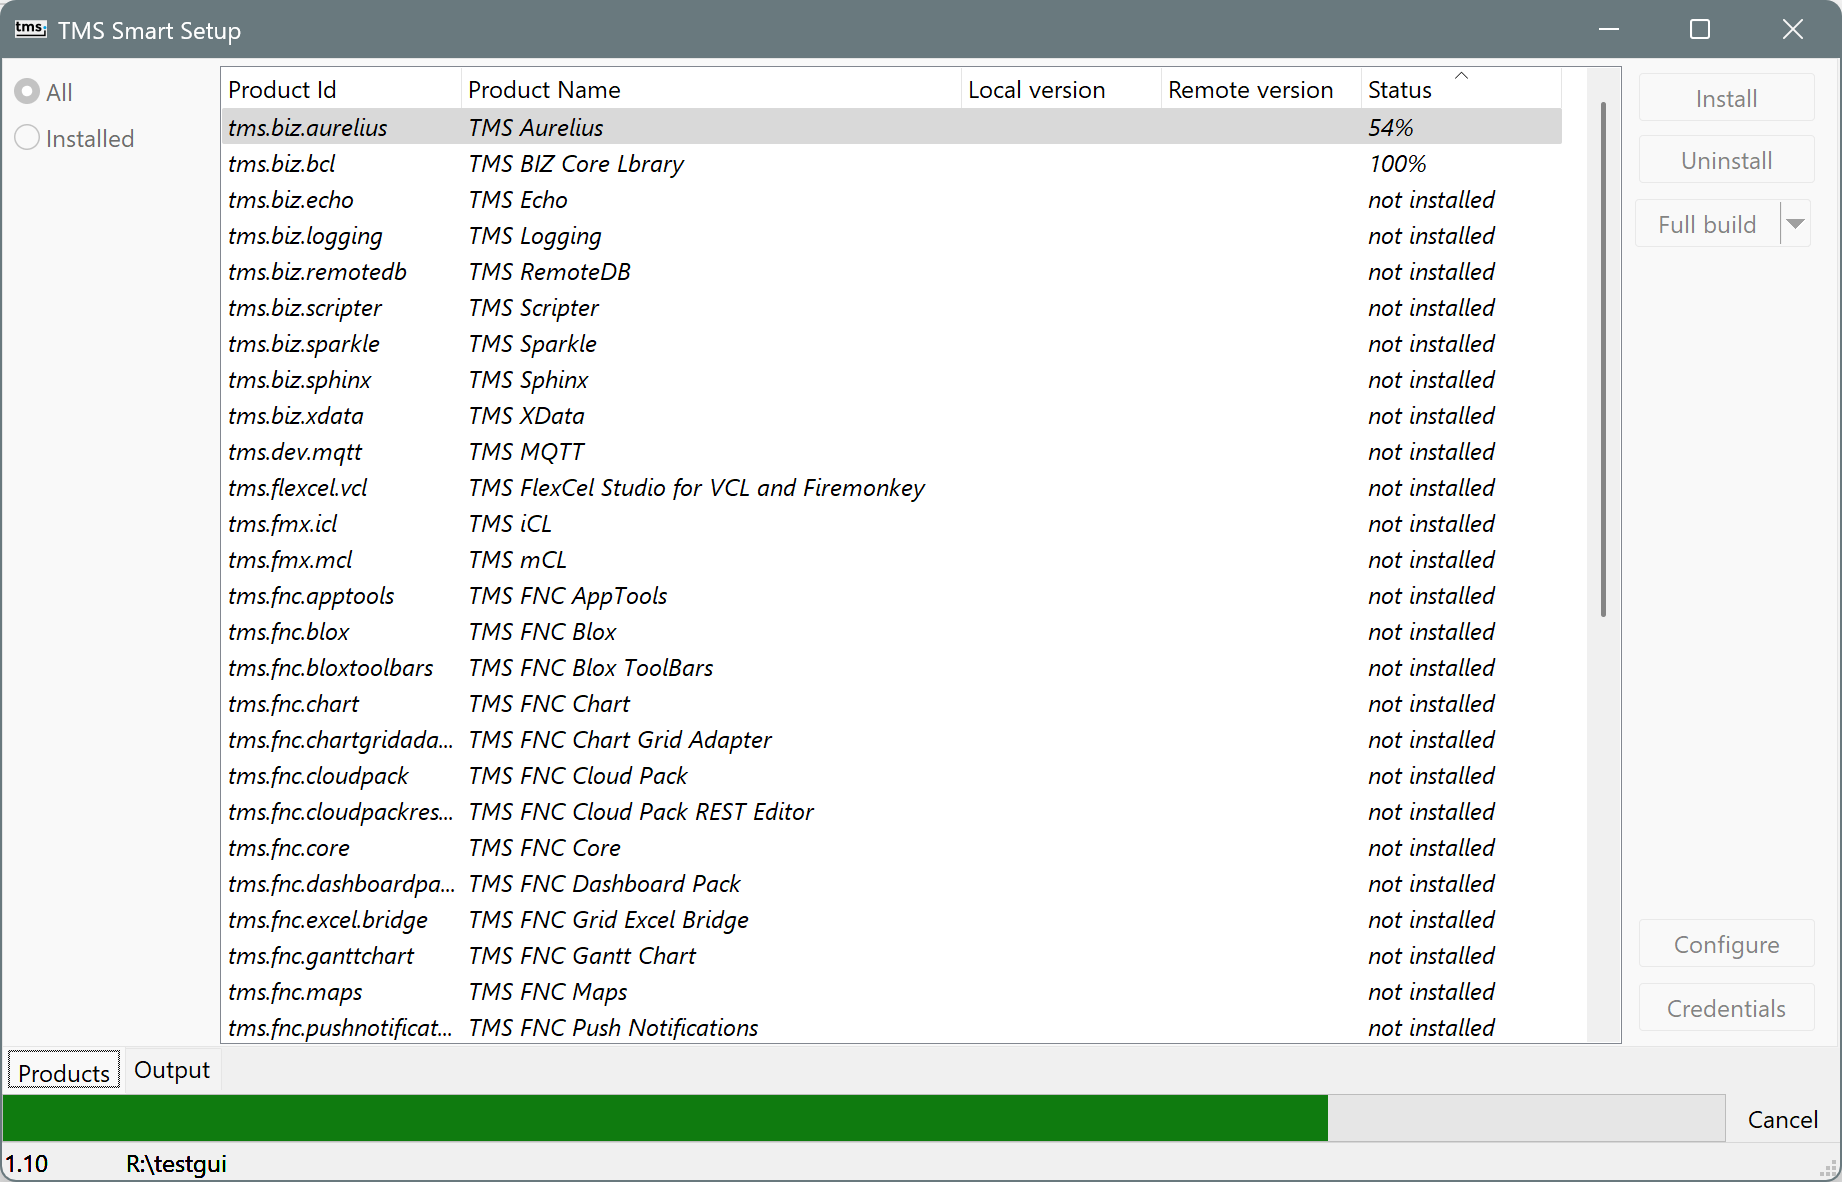
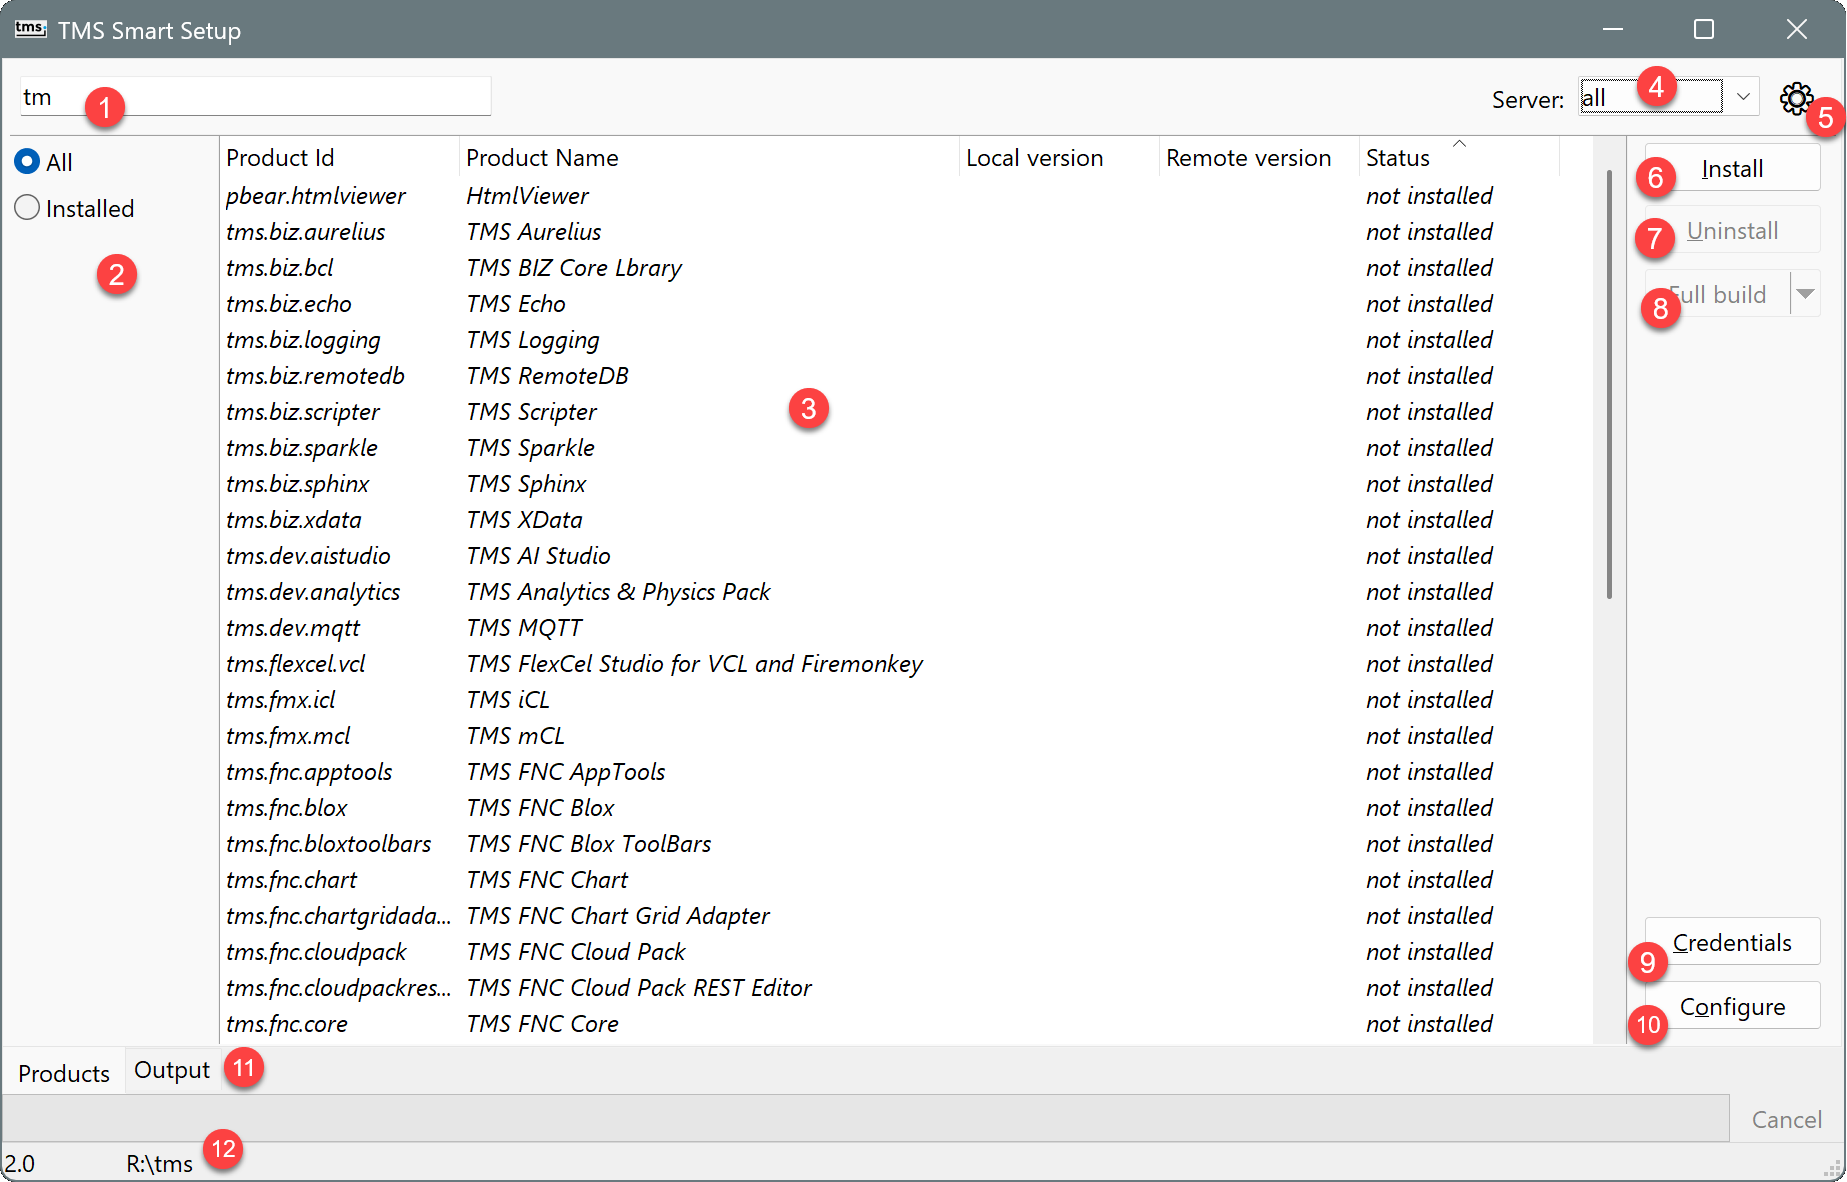
download the docs to a separate folder. It worked the same as it was, but it could be uploading stuff we didn't want.
Also updated the tmsgui screenshots, just to be 100% sure this is working

Changed region(s): [[0.0, 0.0609, 1.0, 1.0], [0.4023, 0.335, 0.4642, 0.3655], [0.0309, 0.2132, 0.0928, 0.2437]]

diff --git a/doc/source/guide/gui-tool-usage.md b/doc/source/guide/gui-tool-usage.md
@@ -7,23 +7,37 @@ uid: SmartSetup.GUIToolUsage
 
 Alternatively to command-line, you can use the GUI tool. Just launch `tmsgui.exe` executable. 
 
-If the working folder is not initialized, it will first ask for credentials to download products from repository. If you skip this step, no credentials will be saved and you can continue using the GUI to build projects that have been manually downloaded:
+If the working folder is not initialized, it will first ask you what servers you want to enable:
+
+{{#image}}tmsgui-welcome-dialog.png{{/image}}
+
+Here, you can choose if you want to manage **tms** products, if you want manage products from the **community** server, or both.
+
+If you enable the tms server, you will get another dialog asking you for the credentials:
 
 {{#image}}tmsgui-login.png{{/image}}
 
-The GUI tool lists the installed and available products in the main listing view. 
+And then you should arrive to the main view:
 
 {{#image}}tmsgui-main-screen.png{{/image}}
 
-At the right, you have some buttons that perform on the selected products:
+1. **Search box**: type to find the product you want to install
+2. **Filter pane**: select if to see all available products, or only installed ones.
+3. **Product list**: a list of all products installed or available
+4. **Server selection box** this box is only visible if there is more than one active server, and it allows to filter the results by server
+5. **Settings**: Set general settings for tms/tmsgui
+6. **Install**: download and install the selected products. Equivalent to `tms install` command.
+7. **Uninstall**: uninstall the selected products. Equivalent to `tms uninstall` command.
+8. **Full build/Partial build**: rebuild the selected products. If no products are selected, rebuild everything. Equivalent to `tms build -full` and `tms build` commands
+9. **Credentials**: ask for new credentials. Equivalent to `tms credentials` command.
+10.**Configure**: create (if missing) and open the YAML configuration file. Equivalent to `tms config` command.
+11.**Output tab**: shows the output of the current command-line being executed. For long-running commands like installing and building, you can switch to it to follow the progress of the execution.
+12. **Status bar**: at the bottom of the main window, the GUI displays the current working folder, and the current Smart Setup version.
 
-- **Install**: download and install the selected products. Equivalent to `tms install` command.
-- **Uninstall**: uninstall the selected products. Equivalent to `tms uninstall` command.
-- **Full build/Partial build**: rebuild the selected products. If no products are selected, rebuild everything. Equivalent to `tms build -full` and `tms build` commands
-- **Configure**: create (if missing) and open the YAML configuration file. Equivalent to `tms config` command.
-- **Credentials**: ask for new credentials. Equivalent to `tms credentials` command.
+When there are errors, an error pane will show:
 
-In the status bar, at the bottom of the main window, the GUI displays the current working folder, and the current Smart Setup version.
+{{#image}}tmsgui-errors.png{{/image}}
 
-Under the hood, the GUI just executes the `tms` command-line. The `Output` tab shows the output of the current command-line being executed. For long-running commands like installing and building, you can switch to it to follow the progress of the execution.
+If you click on the messages of the error pane, it will show more detailed information about the particular error.
+
 
